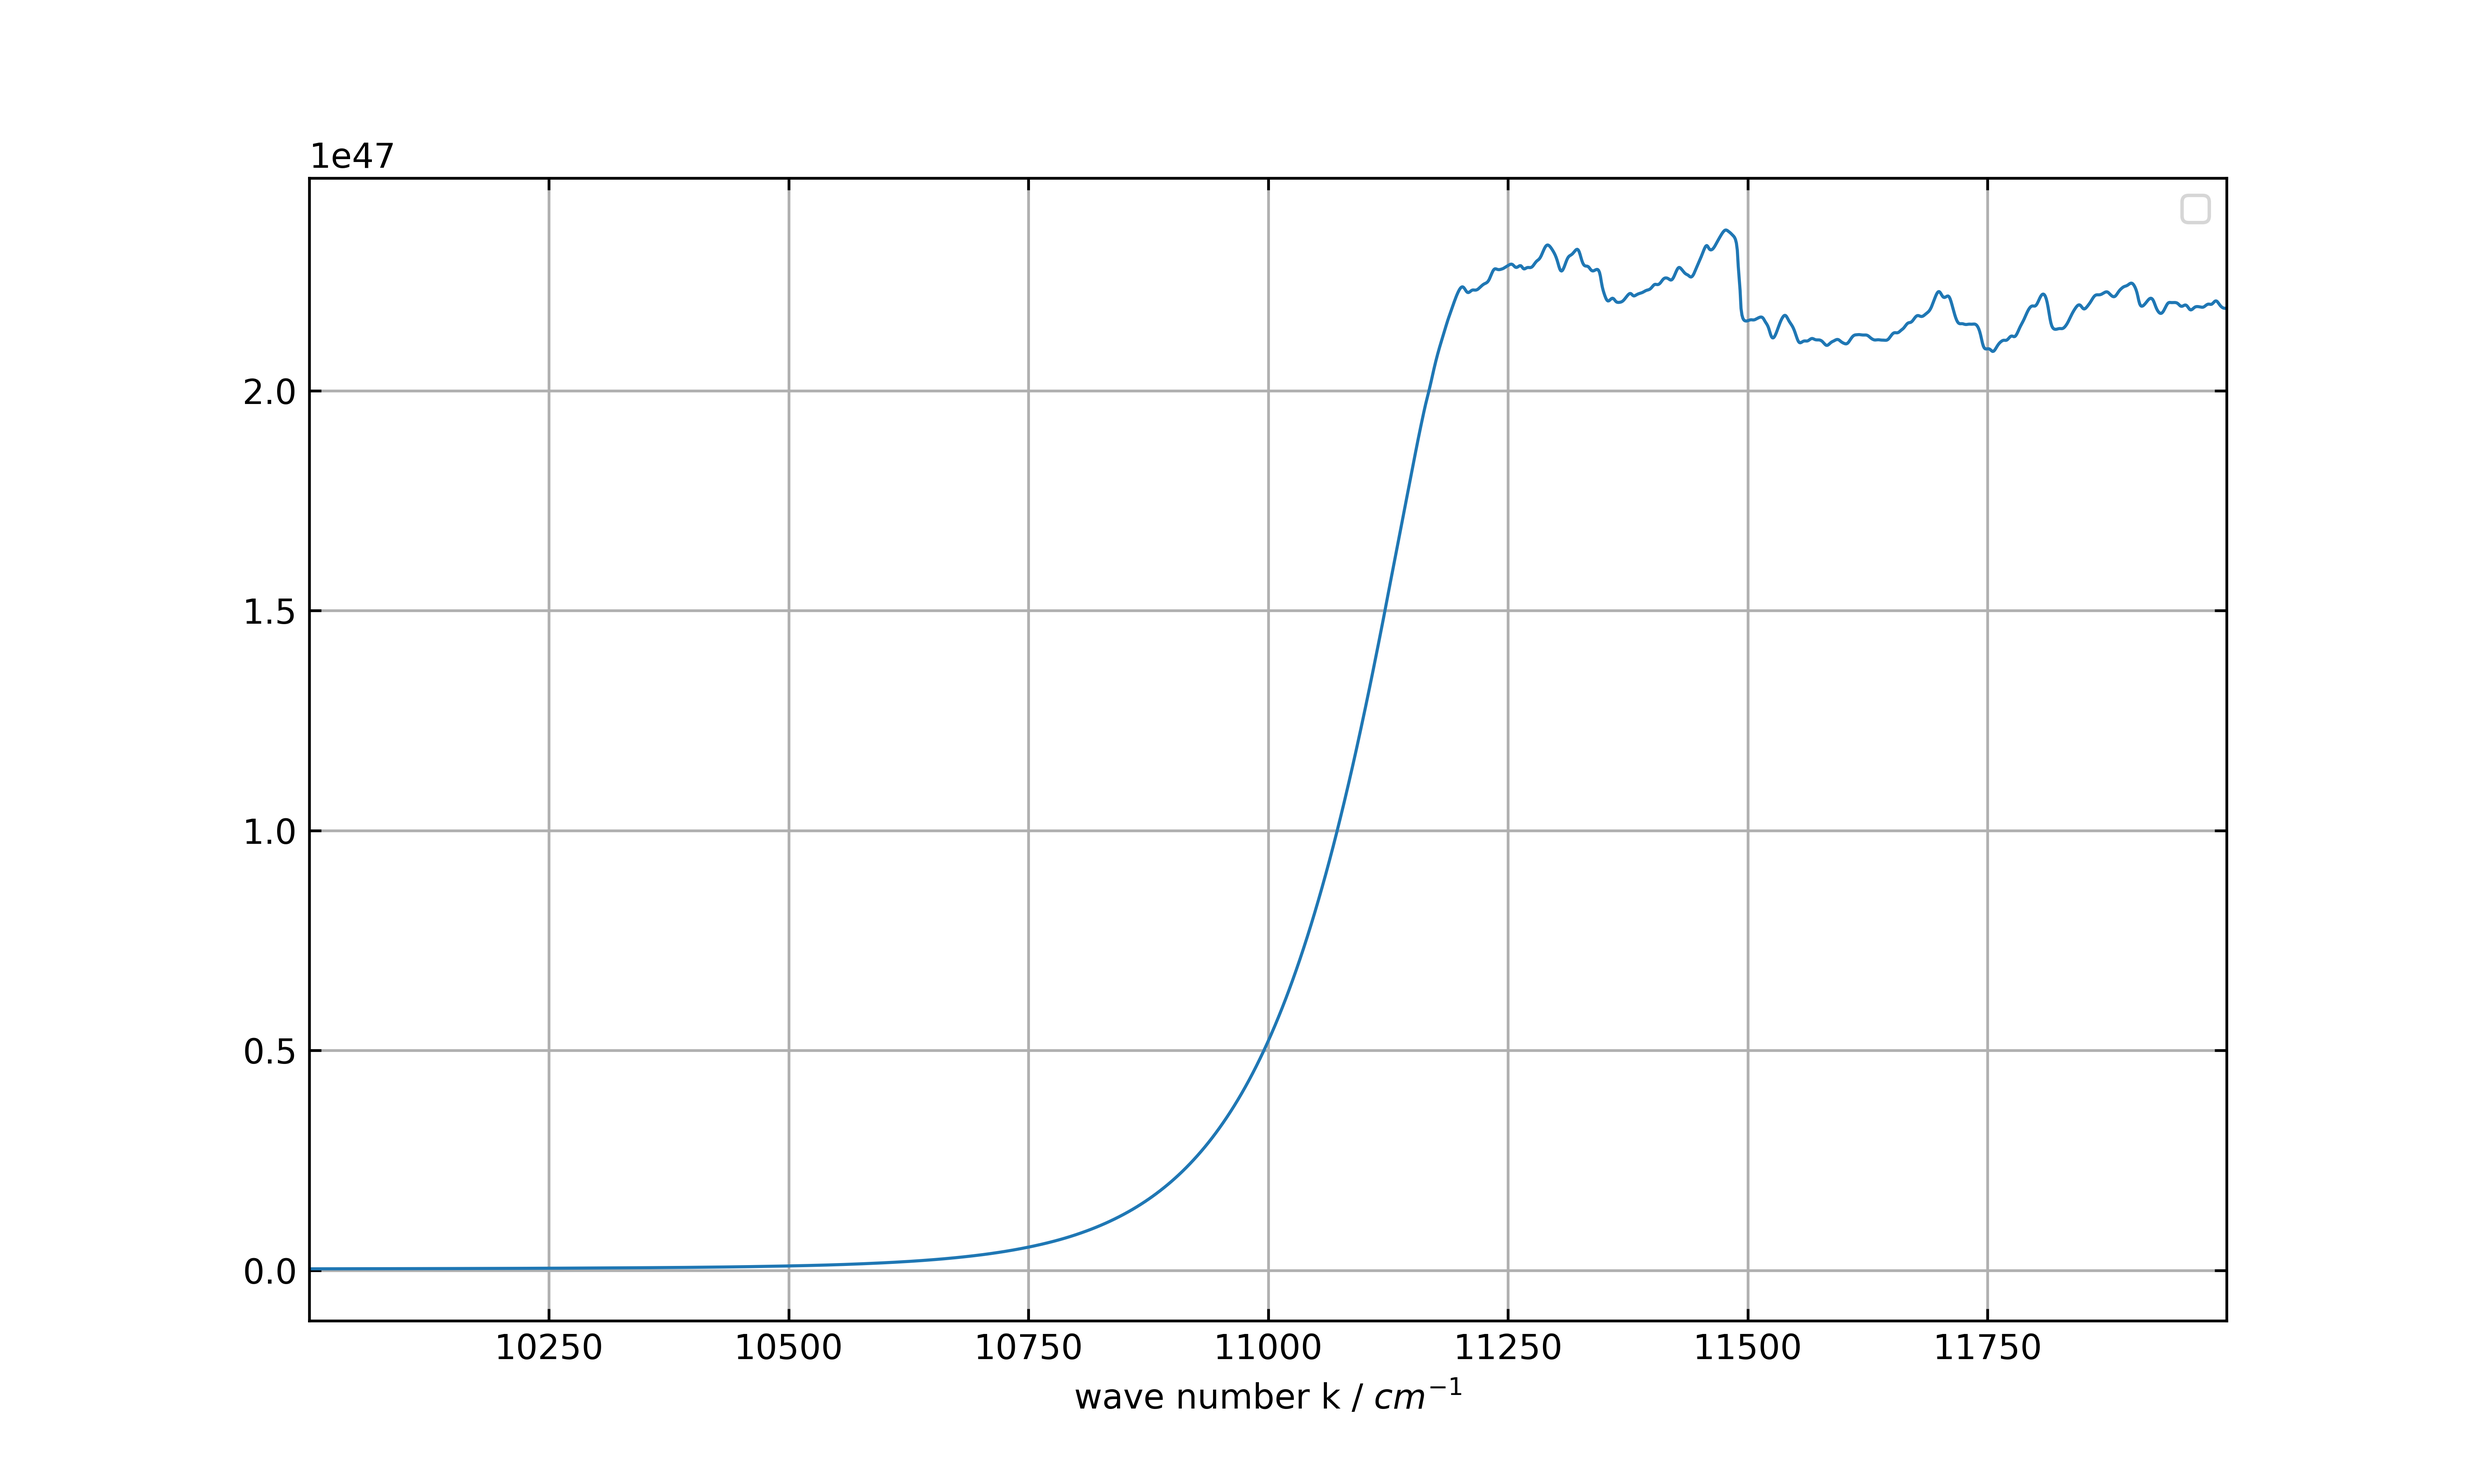
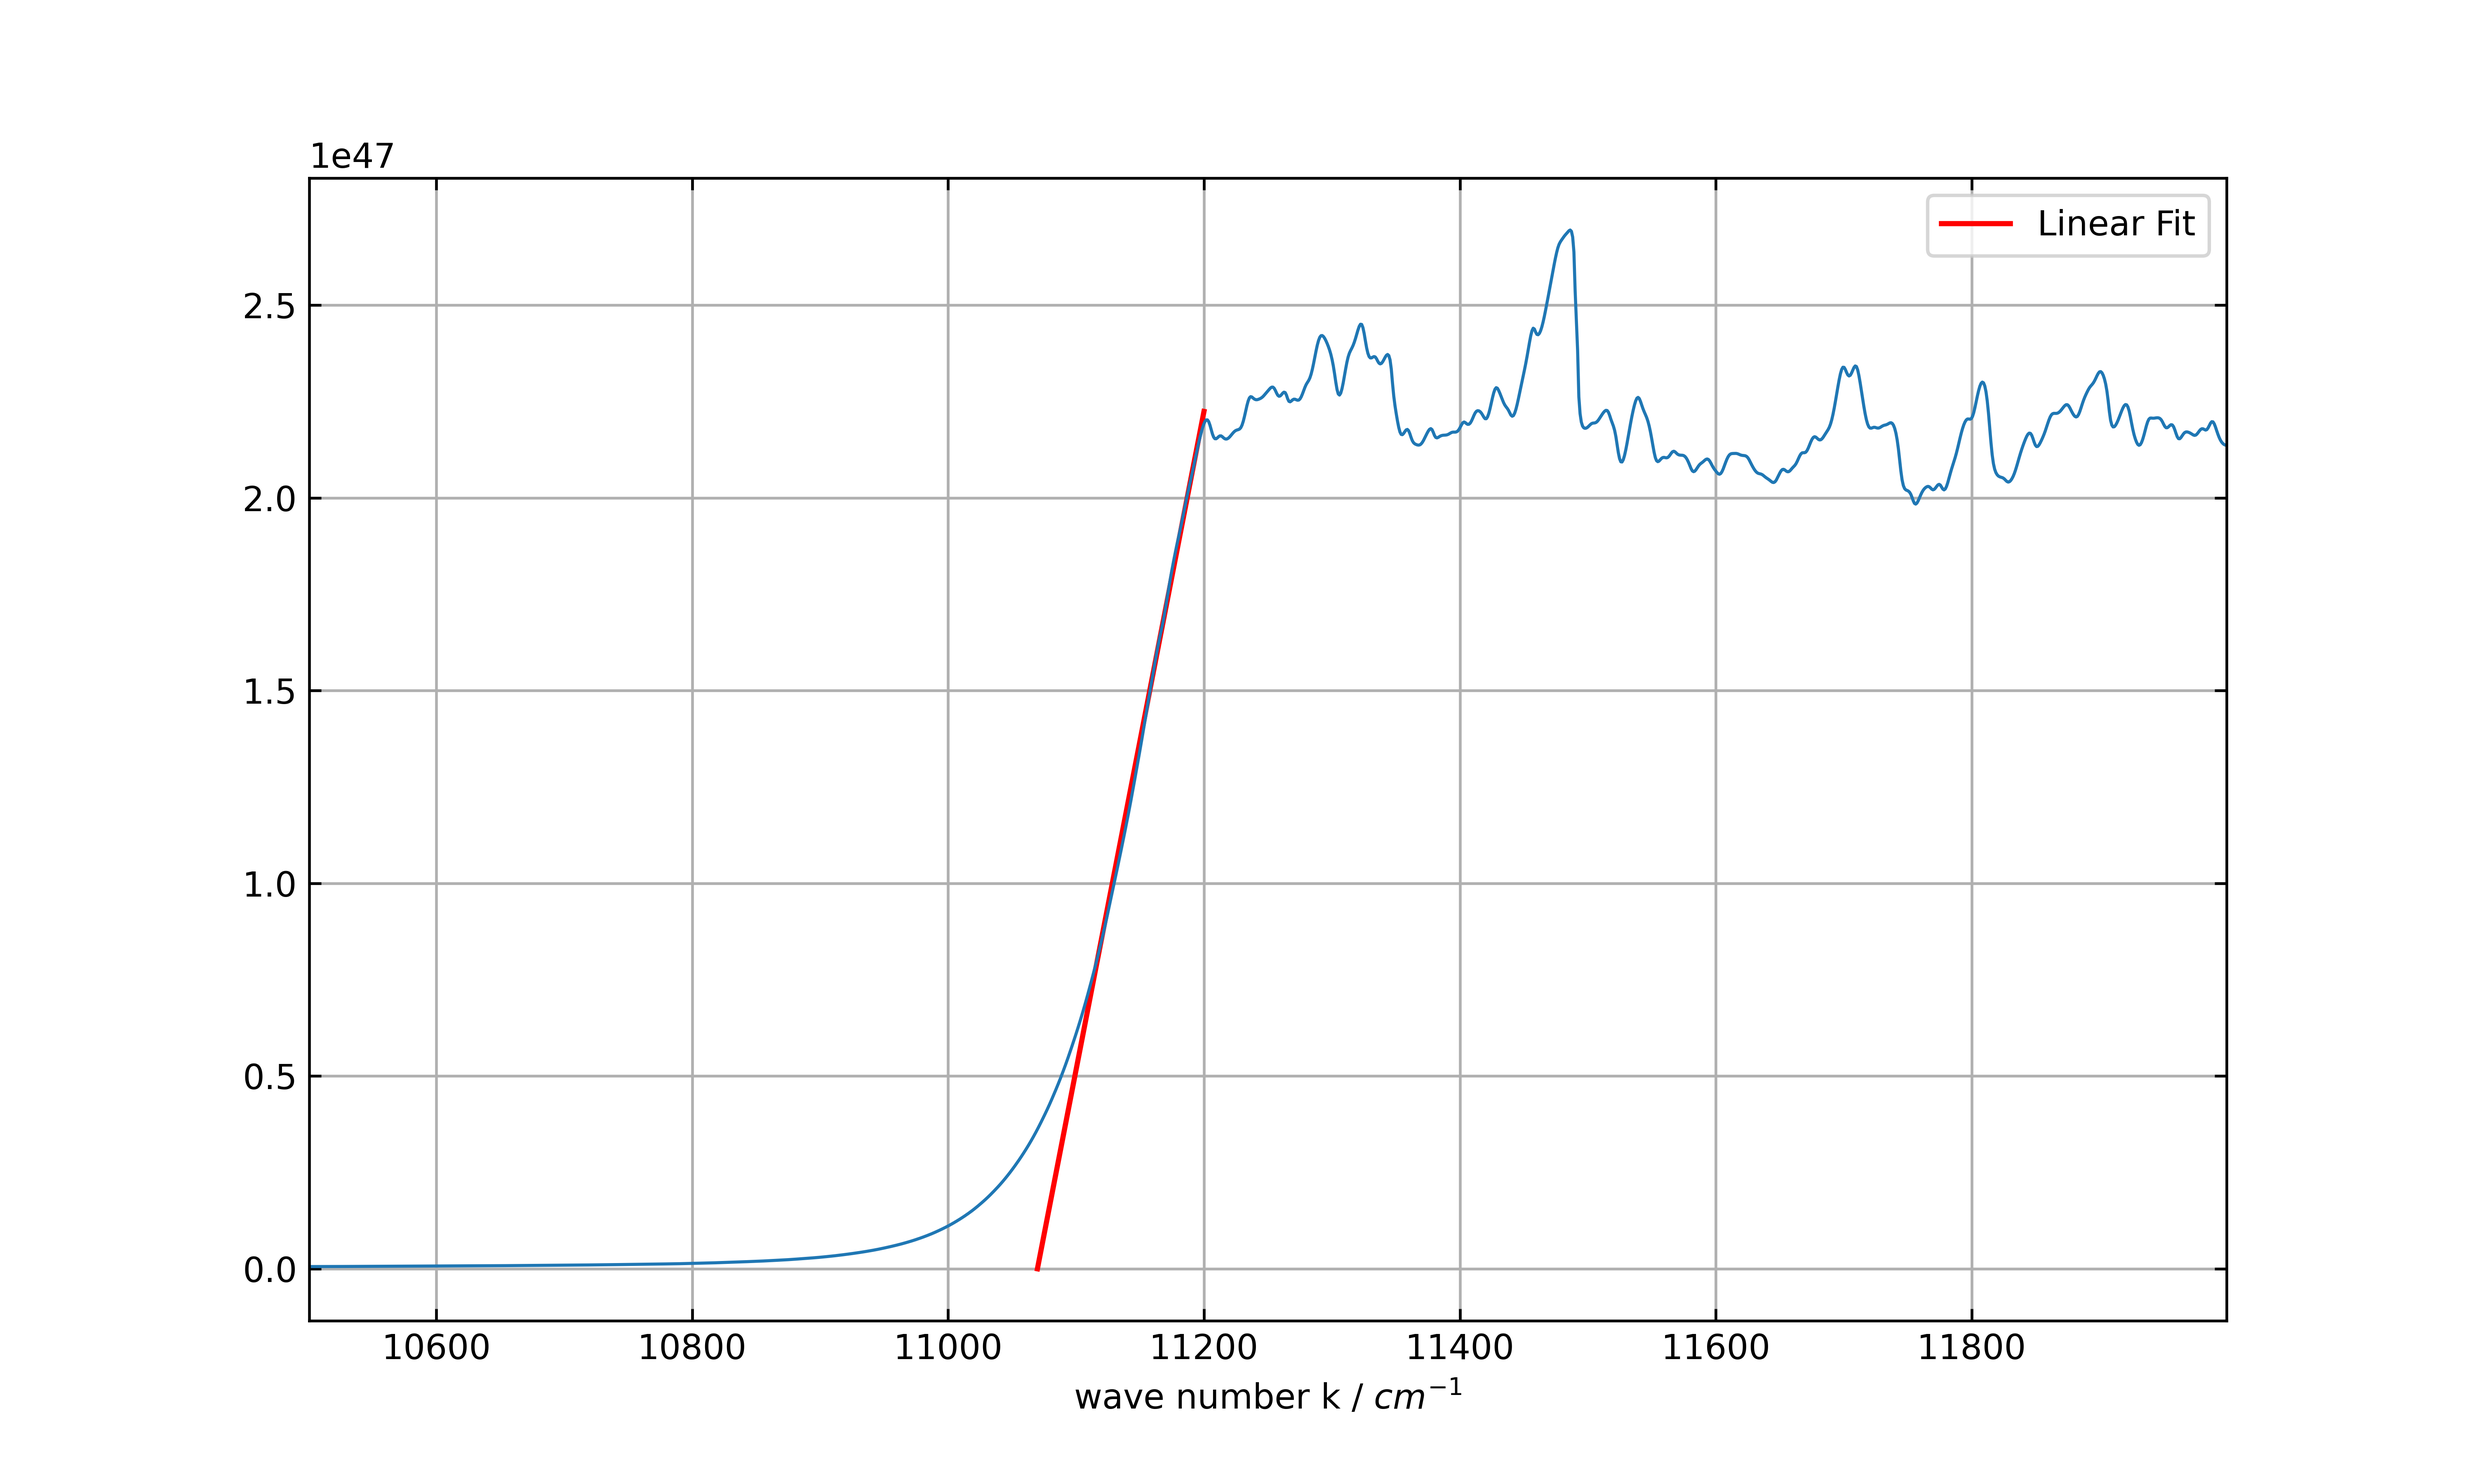
linear fit geht jz

diff --git a/SolidStateOptics/exp4.py b/SolidStateOptics/exp4.py
@@ -5,6 +5,8 @@ import numpy as np
 import scipy.constants as const
 from scipy.optimize import fsolve
 from Frauen import bügeln
+import os, sys
+sys.path.insert(1, "/".join(os.path.realpath(__file__).split("/")[0:-2]))
 
 
 e = const.e  # Elementary charge in Coulombs
@@ -111,7 +113,7 @@ def k_chopper(data, k_min, k_max):
     return [point for point in data if k_min <= point[0] <= k_max]
 
 
-def calculate_KomischeFunktion(reflection, transmission, glättwert):
+def calculate_KomischeFunktion(reflection, transmission):
     
     k_epsilon_2 = calculate_k_epsilon_2(reflection, transmission)
     
@@ -121,16 +123,18 @@ def calculate_KomischeFunktion(reflection, transmission, glättwert):
     return komischeFunktion
 
 
-def plotKomischeFunktion(reflection, transmission, glättwert=0.01):
-    komischeFunktion = calculate_KomischeFunktion(reflection, transmission, glättwert)
-    plot_data(k_chopper(bügeln(komischeFunktion, glättwert),9000,13000))
+def plotKomischeFunktion(reflection, transmission, k_min, k_max, k_min_regression, k_max_regression, glättwert=0.01):
+    komischeFunktion = bügeln(calculate_KomischeFunktion(reflection, transmission),glättwert)
     
-    chopped = k_chopper(calculate_KomischeFunktion(reflectionGaAsDo, transmissionGaAsDo, glättwert=0.01), 11000, 11500)
-    linear_regression(chopped)
+    chopped = k_chopper(komischeFunktion, k_min=k_min_regression, k_max=k_max_regression)
+    steig, x_intercept, y_intercept = linear_regression(chopped)
     
-    
-    
-    
+    x_vals = np.linspace(x_intercept, k_max_regression, 10)  # Generate x values for the line
+    y_vals = steig * x_vals + y_intercept       # Calculate corresponding y values
+    plt.plot(x_vals, y_vals, label='Linear Fit', color='red', linestyle='-')  # Plot the line
+    plt.legend()
+        
+    plot_data(k_chopper(komischeFunktion,k_min, k_max))
     
     plt.xlabel('wave number k / ' + r'$cm^{-1}$')    
     save_and_open("foo")
@@ -148,13 +152,12 @@ def linear_regression(komischeFunktion):
     """
     x = np.array([point[0] for point in komischeFunktion])
     y = np.array([point[1] for point in komischeFunktion])
-    x = np.array(komischeFunktion[0])
-    y = np.array(komischeFunktion[1])
+    # Removed incorrect overwriting of x and y
     n = len(x)
     slope = (n * np.sum(x * y) - np.sum(x) * np.sum(y)) / (n * np.sum(x**2) - np.sum(x)**2)
-    intercept = (np.sum(y) - slope * np.sum(x)) / n
-    x_intercept = -intercept / slope if slope != 0 else None
-    return slope, intercept, x_intercept
+    y_intercept = (np.sum(y) - slope * np.sum(x)) / n
+    x_intercept = -y_intercept / slope if slope != 0 else None
+    return slope, x_intercept, y_intercept
 
     
 
@@ -200,7 +203,7 @@ samplesOhneSiUn = [
 # save_and_open('foo')
 
 
-#plotKomischeFunktion(reflectionGaAsDo, transmissionGaAsDo, glättwert=0.01)
+plotKomischeFunktion(reflectionGaAsDo, transmissionGaAsDo, 10500, 12000, 11150, 11200, glättwert=0.03)
 #plot_the_ns(0.005)
 
 

diff --git a/SolidStateOptics/Frauen.py b/SolidStateOptics/Frauen.py
@@ -1,4 +1,4 @@
-def bügeln(data, alpha = 0.5):
+def bügeln(data, alpha = 1):
     """
     Applies exponential smoothing to the given data. 
     Higher alpha values give more weight to recent observations.
